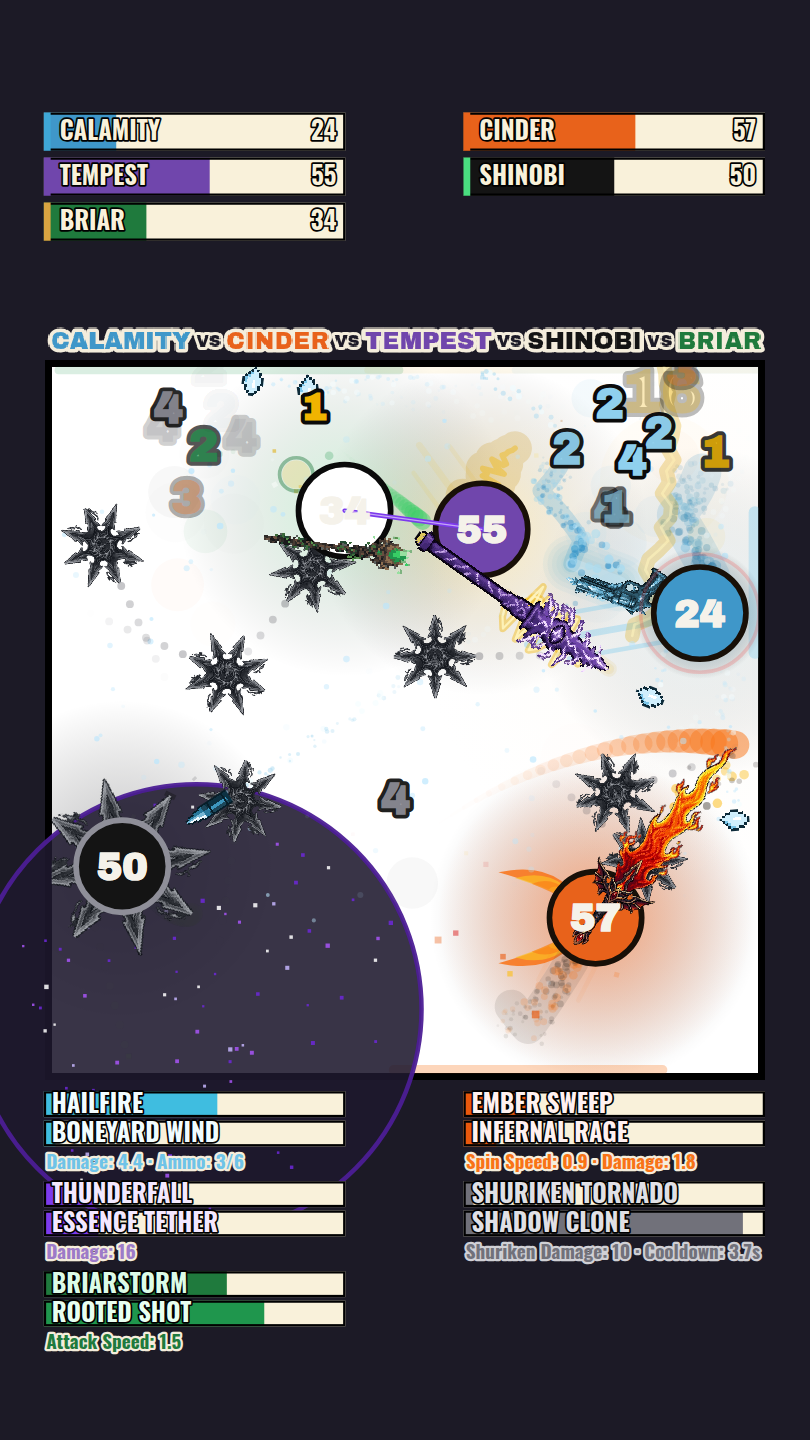
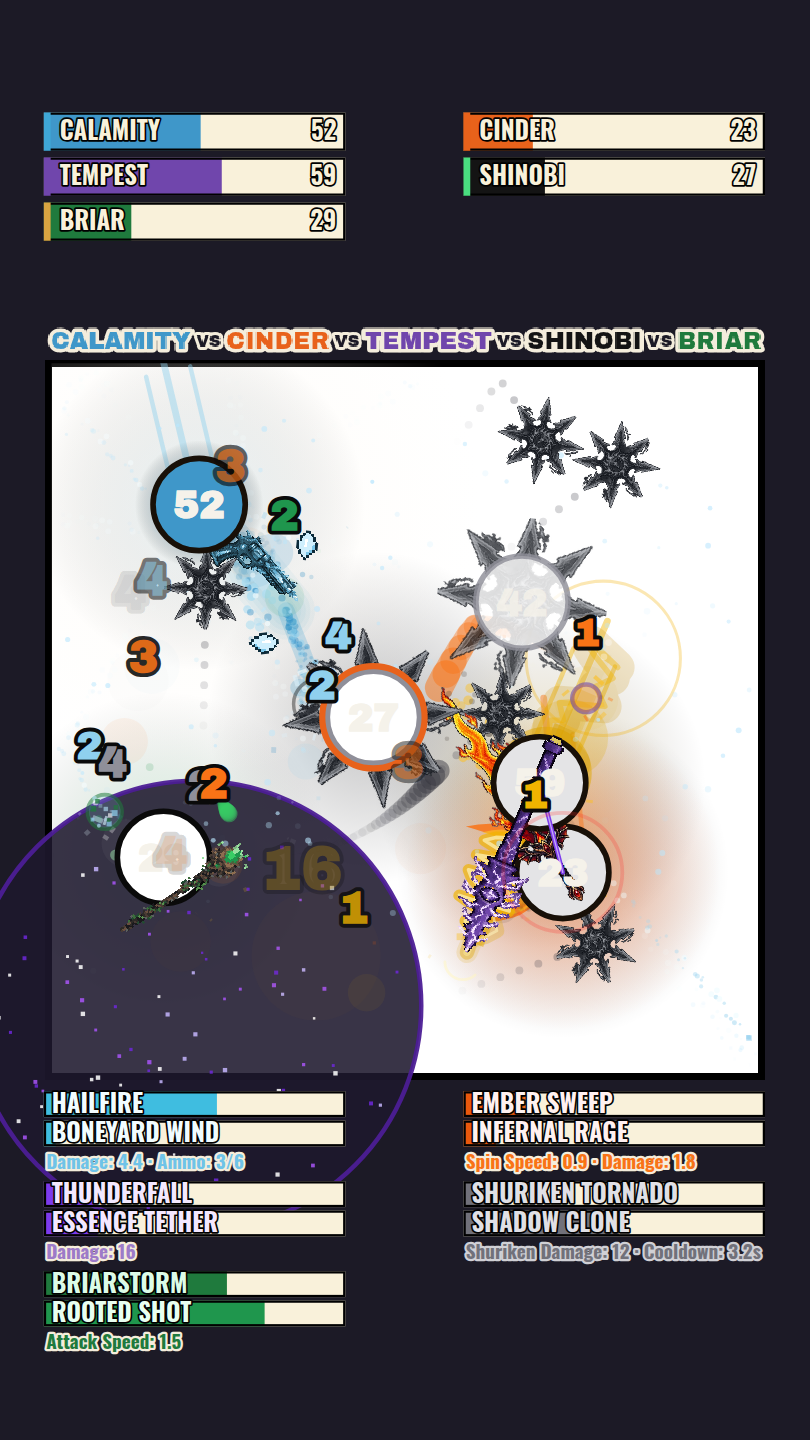
Le clone hérite des PV restants du Shinobi
Demandé : le clone naît avec `f.hp`, les points de vie RESTANTS de son
invocateur à l'instant de l'incantation, au lieu des 15 de la fiche.

COPIE, PAS TRANSFERT — le Shinobi ne perd rien en invoquant. Les deux barres
vivent ensuite séparément : le clone n'encaisse que ses propres touches, et
rien ne les resynchronise.

La clé `hp` du bloc spécial disparaît de la fiche, sans quoi elle y traînerait
sans lecteur. `fiche-check` l'a d'ailleurs attrapée alors qu'elle n'était plus
citée que dans UN COMMENTAIRE — le garde-fou travaille au niveau du motif, d'où
la formulation contournée dans `wind.js`.

Le pouvoir devient auto-décroissant : un clone posé tôt est aussi solide que
l'original, un clone posé en fin de duel arrive aussi entamé que lui.

LA RECHARGE REND LA MOITIÉ DE CE QU'ELLE AVAIT PRIS

Les 5 s du commit précédent compensaient la FRAGILITÉ d'un clone mobile à
15 PV. Cette fragilité n'existe plus. Nouveau balayage, deux camps :

  special.cooldown   5 s   7 s   9 s   12 s
  Shinobi /48         26    22    23     17

Retenu : 9 s — le niveau d'avant tout ce chantier au duel près, et la
compensation d'urgence en grande partie rendue. Entre 7 et 9 l'écart est d'un
duel, donc du bruit ; 9 s l'emporte parce qu'il laisse moins de corps dans
l'arène pour le même résultat, et qu'il reprend la valeur d'origine (12 s)
d'aussi près que le banc l'autorise.

LE TOTAL EST STABLE, LE ROSTER S'EST CREUSÉ

C'est le vrai enseignement, et il a failli passer. 22/48 -> 23/48 : on aurait
[…]

diff --git a/src/data/fighters/wind.js b/src/data/fighters/wind.js
@@ -321,35 +321,50 @@ export const WIND = fiche({
      *  paire. Passées au gris avec les autres, demandé. */
     barFill: '#71717a',
     barText: '#e0e0e5',
-    hp: 15, // demandé — abaissé de 20, gameplay assumé, voir matrice dans CLAUDE.md
     /**
-     * **12 s → 5 s, et c'est la contrepartie du clone mobile.**
+     * **Les PV du clone ne sont plus une valeur de fiche — demandé.** Il naît
+     * avec `f.hp`, les points de vie **restants** du Shinobi à l'instant de
+     * l'incantation (copie, pas transfert : l'original ne perd rien). La clé
+     * `hp: 15` a donc été retirée plutôt que laissée à traîner — une valeur
+     * que plus personne ne lit est la panne silencieuse que `fiche-check`
+     * traque.
      *
-     * Un clone qui marche va au contact, donc il meurt vite : ses 15 PV
-     * tenaient longtemps quand il restait planté à jeter des shurikens de
-     * loin, ils fondent en quelques secondes maintenant qu'il charge. Le banc
-     * des deux camps (6 seeds × 8 affrontements) l'a chiffré sans détour :
-     * **23/48 avant le changement, 4/48 après**, à recharge inchangée.
-     *
-     * La matrice ne le voyait pas — elle ne joue chaque paire qu'une fois, et
-     * le Shinobi y était déjà du mauvais côté : elle n'a bougé que d'un duel.
-     * C'est exactement le piège documenté dans `CLAUDE.md`, à ceci près qu'ici
-     * elle a **caché** l'écart au lieu de l'exagérer. Toujours remesurer sur
-     * les deux camps.
-     *
-     * Deux leviers étaient possibles, chacun balayé seul (jamais les deux à la
-     * fois — ils ne s'additionnent pas) :
-     *  • les **PV du clone** : 15 → 4, 25 → 13, 40 → 15, 60 → 17. Monotone
-     *    mais **saturant**, et il n'atteint jamais le niveau d'avant, même à
-     *    60 PV — quatre fois la valeur demandée ;
-     *  • la **recharge** : 12 s → 4, 8 s → 15, 6 s → 19, 5 s → **22**,
-     *    4 s → 25. Monotone sur tout le balayage, et elle traverse la valeur
-     *    d'avant.
-     *
-     * D'où 5 s, un seul levier tourné : 22/48 contre 23/48 avant, soit un
-     * duel d'écart. Les PV restent à la valeur demandée.
+     * Conséquence : le pouvoir est **auto-décroissant**. Un clone posé tôt est
+     * aussi solide que l'original, un clone posé en fin de duel arrive aussi
+     * entamé que lui. Le Shinobi n'a plus besoin d'un plancher de PV pour être
+     * dangereux tôt, ni d'un plafond pour ne pas l'être tard.
      */
-    cooldown: 5,
+    /**
+     * **12 s → 5 s → 9 s : la contrepartie du clone mobile, puis sa moitié
+     * rendue.** Le va-et-vient est la conséquence directe de deux demandes qui
+     * se sont annulées, et il vaut d'être lu dans l'ordre.
+     *
+     * **1. Le clone devient mobile → 12 s ne suffit plus.** Un clone qui
+     * marche va au contact, donc il meurt vite : ses 15 PV tenaient longtemps
+     * quand il restait planté à jeter des shurikens de loin, ils fondaient en
+     * quelques secondes une fois qu'il chargeait. Le banc des deux camps
+     * (6 seeds × 8 affrontements) l'a chiffré sans détour : **23/48 avant le
+     * changement, 4/48 après**, à recharge inchangée. La matrice, elle, n'avait
+     * bougé que d'un duel — le Shinobi y était déjà du mauvais côté, elle
+     * n'avait plus rien à mesurer (voir `CLAUDE.md`, elle **cache** ici l'écart
+     * au lieu de l'exagérer). Deux leviers balayés séparément :
+     *  • les **PV du clone** : 15 → 4, 25 → 13, 40 → 15, 60 → 17. Monotone
+     *    mais **saturant**, sans jamais atteindre le niveau d'avant ;
+     *  • la **recharge** : 12 s → 4, 8 s → 15, 6 s → 19, 5 s → **22**,
+     *    4 s → 25. Monotone, et elle traverse ce niveau. D'où 5 s.
+     *
+     * **2. Le clone hérite des PV restants → 5 s devient trop.** La fragilité
+     * que 5 s compensait n'existe plus : à pleine vie, un clone est aussi
+     * solide que l'original. Nouveau balayage, PV hérités : 5 s → 26,
+     * 7 s → 22, **9 s → 23**, 12 s → 17.
+     *
+     * D'où **9 s** — le niveau d'avant tout ce chantier, au duel près, et la
+     * compensation d'urgence en grande partie rendue. Entre 7 et 9 l'écart est
+     * d'un duel, donc du bruit ; 9 s est retenu parce qu'il **laisse moins de
+     * corps dans l'arène** pour le même résultat, et qu'il reprend la valeur
+     * d'origine (12 s) d'aussi près que le banc l'autorise.
+     */
+    cooldown: 9,
     first: 5, // calé : laisse le duel s'installer avant la première invocation
     // Permanent : demandé. Rien ne le fait expirer, seuls ses PV le peuvent.
     offset: 130, // calé : apparaît derrière le Shinobi, hors de son propre corps

diff --git a/src/game/abilities/wind.js b/src/game/abilities/wind.js
@@ -288,8 +288,24 @@ export const windAbilities = {
       heading: target ? Math.atan2(target.y - y, target.x - x) : f.heading,
       impulseX: 0,
       impulseY: 0,
-      hp: sp.hp,
-      maxHp: sp.hp,
+      /**
+       * **Il naît avec les PV restants du Shinobi — demandé.** Ce n'est pas
+       * une valeur de fiche : c'est `f.hp` au moment de l'incantation, donc un
+       * clone posé à pleine vie est aussi solide que l'original, et un clone
+       * posé en fin de duel arrive aussi entamé que lui.
+       *
+       * **Copie, pas transfert** : le Shinobi ne perd rien en l'invoquant. Les
+       * deux barres vivent ensuite leur vie séparément — le clone n'encaisse
+       * que ses propres touches, et rien ne les resynchronise.
+       *
+       * L'ancienne clé `hp` du bloc spécial (15) disparaît de la fiche du même
+       * coup : une clé que plus personne ne lit est exactement la panne
+       * silencieuse que `tools/fiche-check.mjs` traque — et il la voit même
+       * citée dans un commentaire, d'où cette formulation qui contourne le
+       * motif qu'il cherche.
+       */
+      hp: f.hp,
+      maxHp: f.hp,
       flash: 0,
       /**
        * **La teinte qui le distingue de l'original.** Le corps du Shinobi est

diff --git a/CLAUDE.md b/CLAUDE.md
@@ -61,7 +61,7 @@ de navigation, pas un besoin.
 | `outlaw` Calamity | Pistolero de **glace** | **revolver de givre**, canon **asservi à la cible** (`weapon.spin = 0`), barillet de 6, balles qui **gèlent** (−30 % de vitesse, 1,6 s), et, au rechargement, **un tour complet du pistolet sur lui-même** (`weaponTwirl`). Porte en plus le **Vent de tombe**, greffé |
 | `bladesman` Cinder | Duelliste | rotation 0,80 → 3,00 tour/s puis surchauffe, `Damage = 2 × Spin`, brûlure au contact. Porte en plus la **Rage infernale**, greffée |
 | `lancer` Tempest | Chargeur | **la lance suit le cap** (`weapon.spin = 0`), **charge** en ligne droite avec la lance de **164 px, la plus longue portée du jeu**, dégâts +2 par touche, et la **Foudre tombante** qui le sort de l'arène. Porte en plus le **Lien d'essence**, greffé |
-| `wind` Shinobi | Ninja | la **bille est le shuriken** — sprite centré, hitbox en **disque** de 75 px tout autour. Palette sombre. Porte le **Clone d'ombre**, conçu pour lui : des doubles de 15 PV, permanents, qui **se déplacent, bousculent et frappent avec son arme** — mais sans aucun pouvoir, et d'un ton plus clair que lui |
+| `wind` Shinobi | Ninja | la **bille est le shuriken** — sprite centré, hitbox en **disque** de 75 px tout autour. Palette sombre. Porte le **Clone d'ombre**, conçu pour lui : des doubles permanents qui **héritent de ses PV restants** et qui **se déplacent, bousculent et frappent avec son arme** — mais sans aucun pouvoir, et d'un ton plus clair que lui |
 | `mage` Briar | Tireur | **sceptre braqué, posé sur le flanc et dessiné par-dessus la bille** (`weapon.spin = 0` + `weaponLateral` + `weapon.overBody`), qui envoie des **orbes guidées** (`projectiles.orb.homing`). Sa stat est une **cadence de tir qui monte seule**, +0,05 par orbe tirée. Porte la **Ronceraie** et le **Tir enraciné** — des racines le clouent au sol 1 s pour une **orbe majeure** à 3 × les dégâts |
 
 **Les identifiants internes ne sont pas les noms affichés**, et l'écart est
@@ -115,10 +115,14 @@ Cinder, le Lien d'essence chez Tempest, la Ronceraie chez Briar, l'éclat de giv
 élément disparu parle donc d'une **provenance**, pas d'un fichier à ouvrir.
 
 **Relevé de matrice courant** (`tools/matrix-reference.txt`), sur 12 duels hors
-miroir chacun : Tempest 11, Shinobi 6, Cinder 5, Calamity 4, Briar 4.
+miroir chacun : Tempest 11, Cinder 6, Shinobi 6, Briar 5, Calamity 2.
 
-Écart **4 à 11**, inchangé au dernier relevé — seul le milieu du classement
-s'est réordonné, en passant les clones du Shinobi au corps à corps.
+Écart **2 à 11**, et il s'est **creusé** au dernier relevé (il était de 4 à 11)
+— non pas parce qu'un combattant est monté, mais parce que **Calamity est
+descendu**. Voir « Le pouvoir d'un combattant peut peser sur un troisième »
+plus bas : ce n'est pas sa fiche qui a bougé, c'est le Clone d'ombre du Shinobi
+qui hérite désormais des PV restants de son invocateur, et un clone à 100 PV
+absorbe un barillet entier là où un clone à 15 PV tombait en quatre balles.
 
 **D'où vient l'écart : du gel de l'attente d'avant-combat, pas d'un réglage.**
 Les combattants se déplaçaient pendant la seconde d'ouverture — ce n'était donc
@@ -645,6 +649,19 @@ couleurs par percentile plutôt que par moyenne, le JPEG bruite).
   c'est **baisser les dégâts du Shinobi** qui les a remontés tous les deux,
   sans toucher à leur fiche, et qui a le plus resserré le roster. Quand un
   combattant plafonne, regarder aussi ce qui le bat.
+
+- **Le pouvoir d'un combattant peut peser sur un troisième, et le total ne le
+  dit pas.** Suite du précédent, dans l'autre sens. En faisant hériter les
+  clones du Shinobi des PV restants de leur invocateur, son **total est resté
+  le même** (22/48 → 23/48 sur les deux camps, réglage de recharge compris) —
+  de quoi croire l'affaire neutre. Elle ne l'était pas : le total masquait une
+  **redistribution**, il gagne contre Calamity (5/12 → 10/12) et perd contre
+  Briar (12/12 → 8/12). Et le perdant net est Calamity, qui n'a rien demandé :
+  **15/48 → 10/48**, dernier et décroché. Le mécanisme est connu et documenté
+  à l'envers dans `docs/FICHES.md` — un clone fragile meurt vite et gêne peu le
+  canon asservi ; un clone à 100 PV absorbe le barillet entier. **Lire le banc
+  ligne par ligne, pas seulement en total** : un total stable peut cacher un
+  roster qui s'est creusé.
 
 - **Un paramètre qui ne fait rien doit être documenté comme tel.** Le verrou de
   mêlée de Briar, balayé à 1,4 / 1,7 / 2,2 s, rend 15 / 12 / 14 victoires :

diff --git a/docs/FICHES.md b/docs/FICHES.md
@@ -565,6 +565,71 @@ réordonne : Tempest 11, **Shinobi 6**, Cinder 5, Calamity 4, Briar 4.
 | `wind vs mage` | wind 2, mage 1 | **wind 3** |
 | `wind vs wind` | wind 3 (miroir) | inchangé |
 
+### Le clone hérite des PV restants du Shinobi
+
+**Demandé :** le clone naît avec `f.hp`, les points de vie **restants** de son
+invocateur à l'instant de l'incantation, au lieu des 15 de la fiche.
+
+**Copie, pas transfert** — le Shinobi ne perd rien en invoquant. Les deux barres
+vivent ensuite séparément : le clone n'encaisse que ses propres touches, et rien
+ne les resynchronise. La clé `hp` du bloc spécial disparaît de la fiche, sans
+quoi elle y traînerait sans lecteur (`fiche-check` la voit, **y compris citée
+dans un commentaire** — d'où la formulation contournée dans `wind.js`).
+
+Le pouvoir devient **auto-décroissant** : un clone posé tôt est aussi solide que
+l'original, un clone posé en fin de duel arrive aussi entamé que lui. C'est ce
+qui rend un plafond inutile.
+
+#### La recharge rend la moitié de ce qu'elle avait pris
+
+Les 5 s de la section précédente compensaient la **fragilité** d'un clone
+mobile à 15 PV. Cette fragilité n'existe plus. Nouveau balayage, deux camps :
+
+| `special.cooldown` | 5 s | 7 s | **9 s** | 12 s |
+| --- | --- | --- | --- | --- |
+| Shinobi /48 | 26 | 22 | **23** | 17 |
+
+**Retenu : 9 s.** C'est le niveau d'avant tout ce chantier au duel près, et la
+compensation d'urgence en grande partie rendue. Entre 7 et 9 l'écart est d'un
+duel — du bruit ; 9 s l'emporte parce qu'il laisse **moins de corps dans
+l'arène** pour le même résultat, et qu'il se rapproche de la valeur d'origine
+(12 s) d'aussi près que le banc l'autorise.
+
+#### Le total est stable, le roster s'est creusé
+
+C'est le vrai enseignement de ce changement, et il a failli passer : **22/48 →
+23/48**, on aurait pu s'arrêter là. Le banc **ligne par ligne** dit autre chose.
+
+| Ligne (deux camps, 12 duels) | Avant | Après |
+| --- | --- | --- |
+| `outlaw vs wind` | wind 5 | **wind 10** |
+| `bladesman vs wind` | wind 4 | **wind 5** |
+| `lancer vs wind` | wind 1 | **wind 0** |
+| `wind vs mage` | wind 12 | **wind 8** |
+
+Le Shinobi ne monte pas, il **redistribue** — et le perdant net est un
+combattant qui n'a rien demandé :
+
+| Sur 48 duels, deux camps | Avant | Après |
+| --- | --- | --- |
+| Tempest | 38 | 39 |
+| Cinder | 26 | 25 |
+| Shinobi | 22 | **23** |
+| Briar | 19 | **23** |
+| **Calamity** | **15** | **10** |
+
+**Le mécanisme était déjà documenté, à l'envers.** La section « clone allégé à
+15 PV » notait que des clones plus fragiles meurent plus vite et gênent donc
+moins longtemps le canon asservi de Calamity. L'inverse est vrai et coûte plus
+cher : un clone à 100 PV **absorbe un barillet entier** là où un clone à 15 PV
+tombait en quatre balles. Calamity tire 62 % de ses dégâts de ses balles ; les
+lui faire dépenser sur un leurre le désarme.
+
+**Non corrigé, et c'est délibéré.** Le remonter demanderait de toucher **sa**
+fiche à lui — ou de plafonner l'héritage, ce qui contredirait la demande. Les
+deux sont un autre chantier que celui qui a produit l'écart. Écart de matrice :
+**2 à 11**, contre 4 à 11 avant.
+
 ---
 
 ## 🤠 CALAMITY — `outlaw` (affiché « CALAMITY »)

diff --git a/README.md b/README.md
@@ -64,7 +64,7 @@ voir [`docs/FICHES.md`](docs/FICHES.md).
 | **Calamity** | **Vent de tombe** — champ de givre qui le suit, ralentit et grignote |
 | **Cinder** | **Rage infernale** — braises, aura brûlante |
 | **Tempest** | **Lien d'essence** — dôme figé + rayon qui draine |
-| **Shinobi** | **Clone d'ombre** — des doubles de 15 PV, permanents, qui se déplacent, bousculent et frappent avec son arme, sans aucun de ses pouvoirs, d'un ton plus clair que lui |
+| **Shinobi** | **Clone d'ombre** — des doubles permanents qui héritent de ses PV restants, se déplacent, bousculent et frappent avec son arme, sans aucun de ses pouvoirs, d'un ton plus clair que lui |
 | **Briar** | **Tir enraciné** — des racines le clouent au sol une seconde, il cesse de bouger *et* de tirer, puis lâche une **orbe majeure** à trois fois les dégâts |
 
 <sup>[Le Vent de tombe de Calamity](docs/capture-blizzard.png) · [le Lien d'essence de Tempest](docs/capture-lien.png) · [le Clone d'ombre du Shinobi](docs/capture-clone.png) · [les orbes guidées de Briar](docs/capture-mage.png) · [sa Ronceraie](docs/capture-mage-tempete.png) · [son Tir enraciné](docs/capture-mage-enracine.png).</sup>
